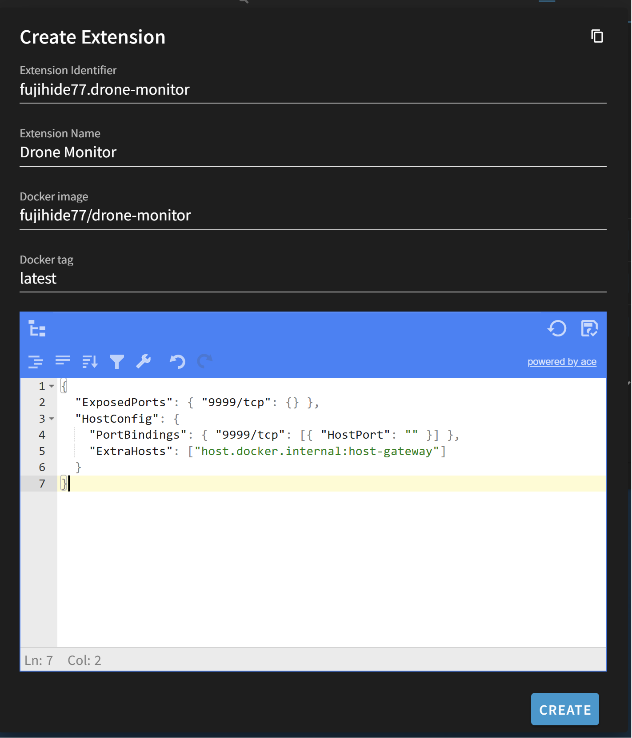
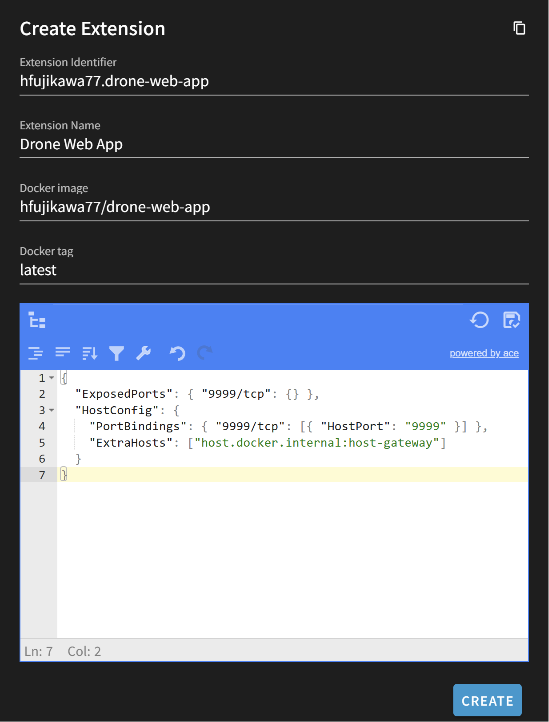
doc: blueos-app-dev-guide Docker Hub公開画像を追加しBlueOS_IPを固定値に置換
Docker Hubへのpush確認用スクリーンショット(004.png)を追加。
<BlueOS_IP>プレースホルダを実IP(192.168.42.1)に統一し、
buildxコマンドに実行ディレクトリのcdを明記。
アプリ名を「Drone Web Control」から「Drone Web App」に統一。

diff --git a/doc/app-dev-guide/blueos-app-dev-guide.md b/doc/app-dev-guide/blueos-app-dev-guide.md
@@ -116,7 +116,7 @@ ls webapp-blueos/ .claude/skills/dronify-blueos/
 
 ## 2.1. Web 制御アプリを生成する（Vibe コーディング）
 
-上記の仕様＋技術スタックは、生成用プロンプト **`webapp-blueos/build-prompt.md`** にまとまっています。これを自分のワークフォルダにコピーし、AI コーディングエージェントにそのプロンプトで指示してアプリ（以後 **Drone Web Control**）を生成します。
+上記の仕様＋技術スタックは、生成用プロンプト **`webapp-blueos/build-prompt.md`** にまとまっています。これを自分のワークフォルダにコピーし、AI コーディングエージェントにそのプロンプトで指示してアプリ（以後 **Drone Web App**）を生成します。
 
 ワークフォルダ `~/GitHub/droneschool/workshop/<term_no>/<fname-lname>/` は、[環境構築手順書 9.4](../drone-dev-env-setup-guide/drone-dev-env-setup-guide.md#94-課題提出用githubリポジトリ準備) で作成済みである前提です。
 
@@ -153,7 +153,7 @@ MAV_ENDPOINT=tcp:127.0.0.1:5762 uvicorn main:app --host 0.0.0.0 --port 9999
 
 ブラウザで <http://localhost:9999/> を開き、地図・テレメトリ・操作ボタンが動くことを確認します。
 
-![ローカル SITL で動作する Drone Web Control](media/drone-webapp-010.png)
+![ローカル SITL で動作する Drone Web App](media/drone-webapp-010.png)
 
 > 接続先は環境変数 `MAV_ENDPOINT` で切り替えます。未指定だと BlueOS 用の既定値（`udpout:host.docker.internal:14550`）になるため、ローカルでは `tcp:127.0.0.1:5762` を明示します。**同じコード・同じイメージのまま、接続先だけを差し替えて** WSL→BlueOS を移行できるのがポイントです。
 
@@ -396,6 +396,7 @@ docker run --rm --network host -e MAV_ENDPOINT=tcp:127.0.0.1:5762 drone-web-app
 BlueOS は Docker Hub からイメージを pull するため、事前に公開しておきます。Raspberry Pi は arm64 のため、`docker buildx` で **マルチアーキ**ビルドして push します。
 
 ```bash
+cd ~/GitHub/droneschool/workshop/<term_no>/<fname-lname>/drone-web-app   # 4.1 で Extension 化したアプリ（Dockerfile があるディレクトリ）
 docker login
 docker buildx create --use            # 初回のみ
 # push 時に "blob upload unknown" が出たら --provenance=false を付けて再実行
@@ -405,16 +406,18 @@ docker buildx build --platform linux/amd64,linux/arm64 --provenance=false \
 
 `https://hub.docker.com/r/<username>/drone-web-app` でイメージ（amd64/arm64）を確認します。
 
+![Docker Hub に公開されたイメージ](media/blueos-extensions-004.png)
+
 **BlueOS へのインストール（Web UI）**
 
-1. `http://<BlueOS_IP>` → 左メニュー `Extensions` → `INSTALLED` タブ
+1. `http://192.168.42.1` → 左メニュー `Extensions` → `INSTALLED` タブ
 2. 右下の `+` → `Create from scratch`
 3. 以下を入力する
 
    | 項目 | 値 |
    |-----|-----|
-   | Extension Identifier | `<username>.drone-web-control` |
-   | Extension Name | `Drone Web Control` |
+   | Extension Identifier | `<username>.drone-web-app` |
+   | Extension Name | `Drone Web App` |
    | Docker image | `<username>/drone-web-app` |
    | Docker tag | `latest` |
 
@@ -436,13 +439,13 @@ docker buildx build --platform linux/amd64,linux/arm64 --provenance=false \
 
 5. `CREATE` を押下
 
-インストール後、左メニューに **Drone Web Control** が追加されます。詳細画面で Status が `Up` になっていれば起動成功。クリックすると `avoid_iframes` により **`http://<BlueOS_IP>:9999/` が新規ウィンドウで開きます**。
+インストール後、左メニューに **Drone Web App** が追加されます。詳細画面で Status が `Up` になっていれば起動成功。クリックすると `avoid_iframes` により **`http://192.168.42.1:9999/` が新規ウィンドウで開きます**。
 
 ![インストール済み Extension の詳細](media/blueos-extensions-020.png)
 
 **動作確認（Definition of Done）**
 
-- [ ] 左メニューに **Drone Web Control** が出る／クリックで `:9999` が開く
+- [ ] 左メニューに **Drone Web App** が出る／クリックで `:9999` が開く
 - [ ] ステータス（接続/ARM/モード/座標/高度）が**点滅せず安定**して表示
 - [ ] ARM / TAKEOFF / LAND / GoTo / モード変更が機能（TAKEOFF で **GUIDED** に入る）
 - [ ] オフラインでも地図ウィジェット・マーカー・航跡が描画（タイルは灰色で可）
@@ -457,7 +460,7 @@ docker buildx build --platform linux/amd64,linux/arm64 --provenance=false \
 | 地図が出ない | CDN（unpkg/OSM）に到達できない | Leaflet をローカル同梱（4.1 ⑤） |
 | VIEW LOGS がタイムアウト | アクセスログ肥大 | `uvicorn ... --no-access-log`（4.1） |
 
-**成果物:** BlueOS 左メニューから開ける Drone Web Control Extension
+**成果物:** BlueOS 左メニューから開ける Drone Web App Extension
 
 <div style="page-break-before:always"></div>
 
@@ -467,7 +470,7 @@ docker buildx build --platform linux/amd64,linux/arm64 --provenance=false \
 
 ## 5.1. 機能を追加する
 
-Drone Web Control に、表示情報や運用機能を足していきます。
+Drone Web App に、表示情報や運用機能を足していきます。
 
 - **表示情報の追加** … HUD（姿勢）、バッテリー残量、GPS 状況（fix・衛星数）などをパネルに追加
 - **GOTO の強化** … 地図クリックで目的地指定、複数 WP の連続移動